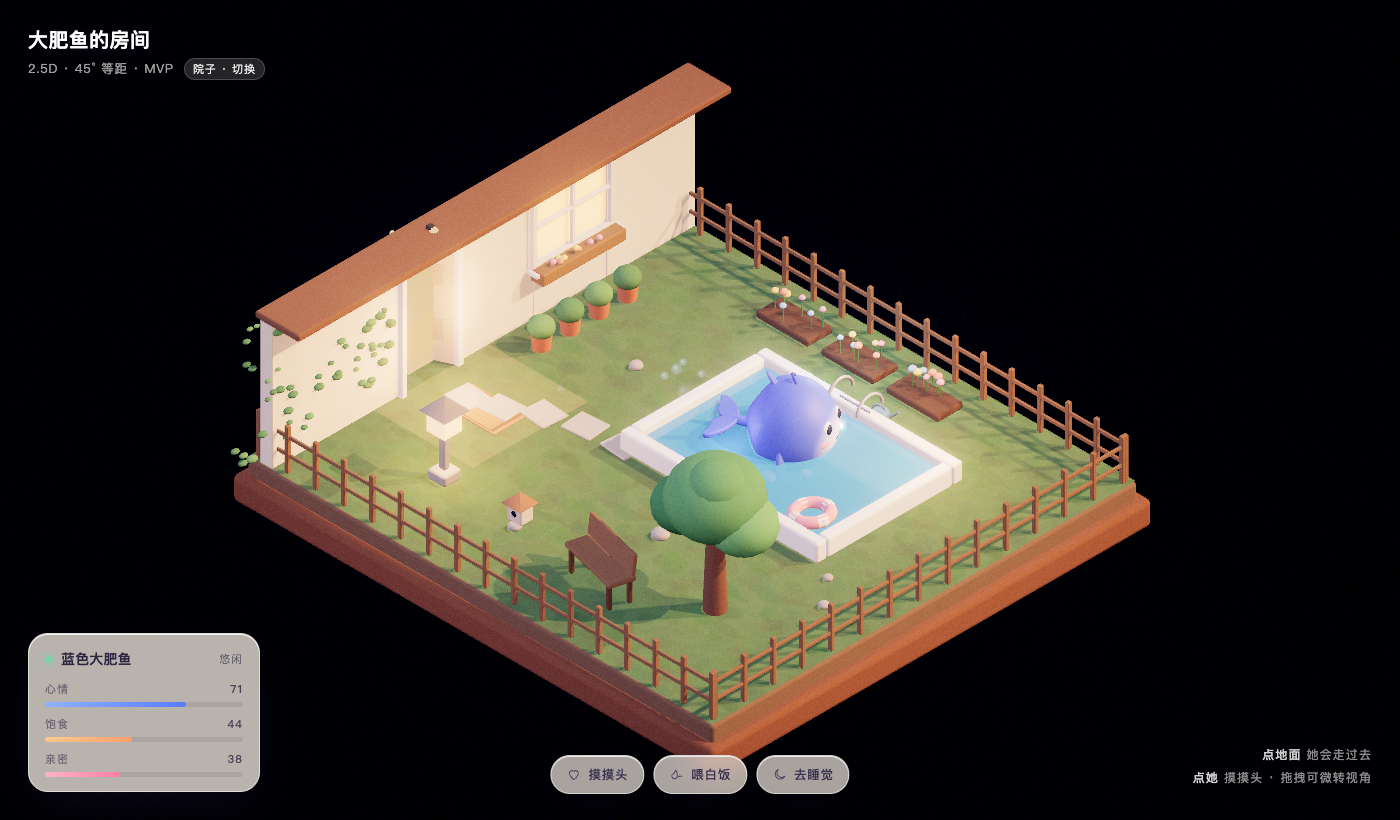
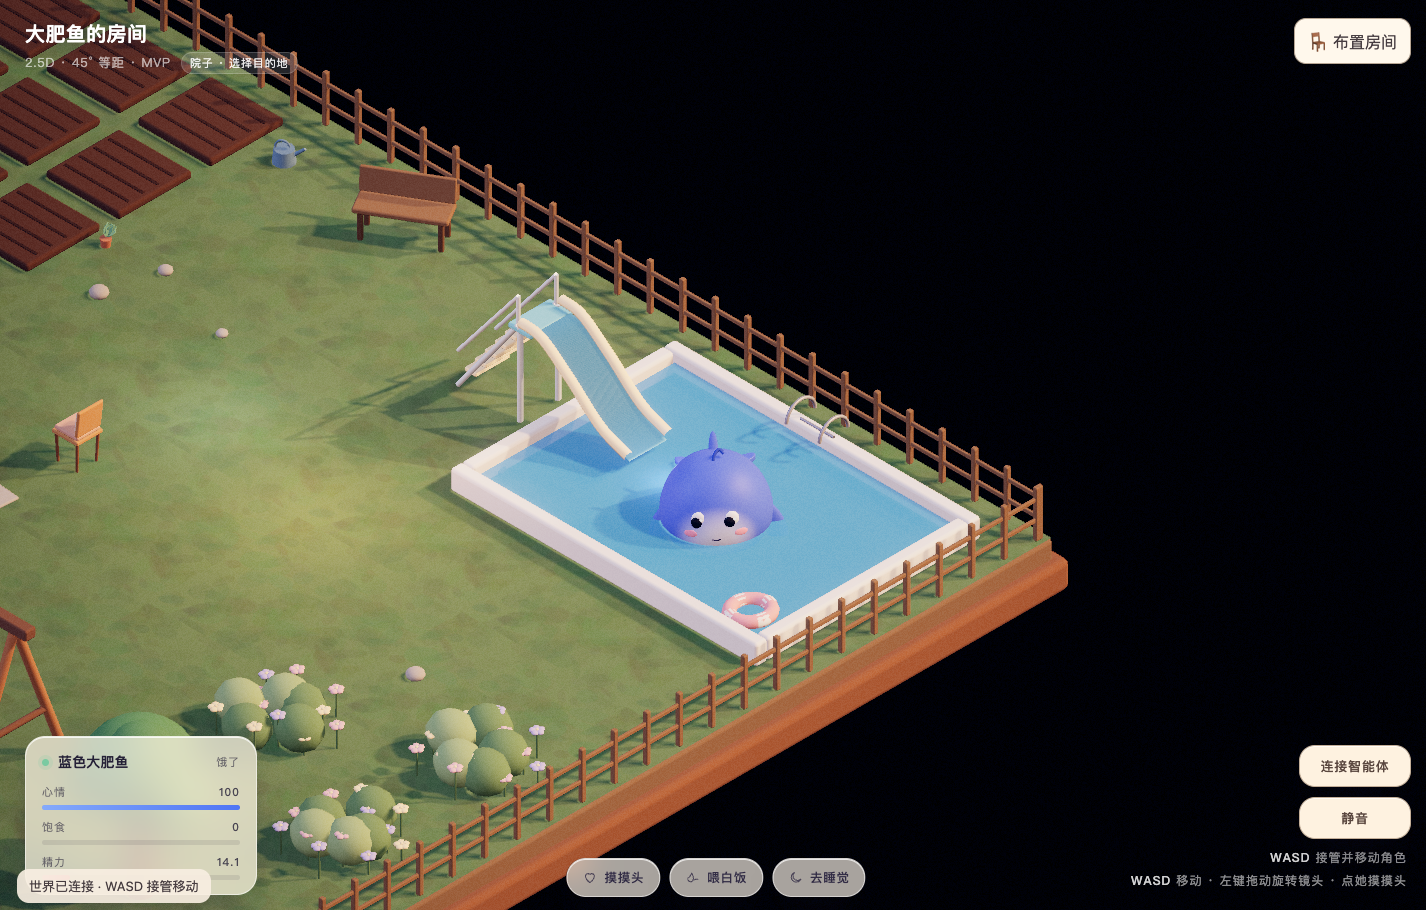
更新五张最新游戏截图，精简README并突出MCP接入与世界建设能力
原样采用用户提供的便利店与日式小楼、卧室、庭院秋千、泳池鲸鱼变身、家具编辑五张截图，置于项目介绍前部。README精简为启动、玩法、MCP授权接入、观察行动建设与音频播放能力、宿主决策边界、存档及许可，保留破晓手记署名和第三方来源。同步修正自检和测试对庭院北侧门槽始终空闲的旧假设，按当前默认布局选择真实可用通道，不修改已固化家具。177项测试、构建、公开文件检查、MCP自检及README链接检查通过；未推送历史文本扫描未发现存档、敏感路径或疑似平台密钥。

diff --git a/README.md b/README.md
@@ -1,22 +1,28 @@
 # 大肥鱼的小世界
 
-一个用 Three.js 制作的 2.5D 电子宠物与房间布置原型：给大肥鱼搭个家，陪她活动、吃白饭、游泳，也能调整家具和院子。
+一个用 Three.js 制作的 2.5D 陪伴与世界搭建游戏。你可以陪大肥鱼生活、布置房间，也可以通过 **MCP 让自己的智能体进入、探索并改造这个世界**。
 
-**作者 / 抖音：破晓手记**。欢迎搜索「破晓手记」，查看成长与开发记录。
-
-这是一个持续探索的 AI 陪伴小世界，部分动作和交互仍在打磨。世界由规则和程序动画执行，外部智能体通过 MCP 决策，QQ 是聊天入口。
-
-文档：[总览](docs/README.md) · [踩坑日记](docs/PITFALLS.md) · [MCP 对接手册](docs/MCP-QUICKSTART.md) · [Agent / DSH 提示词](docs/MCP-PROMPTS.md)
+**作者 / 抖音：破晓手记**
 
 ## 游戏画面
 
-![卧室与电脑椅互动](docs/screenshots/room.png)
+### 夜间便利店与日式小楼
 
-![庭院、农田与泳池滑梯](docs/screenshots/yard.png)
+![街角便利店、路灯与敞开院门的日式二层小楼](docs/screenshots/store.png)
 
-## 快速开始
+### 卧室与庭院
 
-需要 **Node.js 22.13 或更高版本，推荐 Node.js 24**；数据库使用内置的 `node:sqlite`。
+![卧室](docs/screenshots/room.png)
+![庭院与秋千](docs/screenshots/yard.png)
+
+### 泳池变身与家具编辑
+
+![滑入泳池后变为胖鲸鱼](docs/screenshots/pool.png)
+![家具目录与场景编辑](docs/screenshots/editor.png)
+
+## 开始游戏
+
+需要 **Node.js 22.13+，推荐 Node.js 24**。
 
 ```bash
 git clone https://gitee.com/poxiao12138/dafeiyu-room.git
@@ -25,103 +31,55 @@ npm ci
 npm run dev
 ```
 
-打开 [http://127.0.0.1:5200/](http://127.0.0.1:5200/)。本机打开即可自动进入世界，换浏览器或清除 cookie 后也会自动连接。游戏不再使用主人配对码，MCP 标准 OAuth 授权码与主人确认授权继续保留。
+打开 **[http://127.0.0.1:5200/](http://127.0.0.1:5200/)**。前端与后端一起启动，SQLite 存档自动创建，无需安装数据库。
 
-开发命令同时启动前端与存档服务，无需另装数据库。端口固定，占用时先关闭之前启动的服务。
+- **WASD** 移动，走到门口切换场景；户外左键拖动旋转镜头，室内可小幅转动。
+- 点击角色摸头，喂白饭、睡觉恢复状态；滑入泳池变成胖鲸鱼，上岸恢复人形。
+- 点击 **布置房间** 添加、拖动家具；滚轮或 **R** 旋转，右键打开菜单。位置不合适时保留预览，可继续调整。
+- 四个初始场景已包含在项目中。院子保留九块农田，种菜与购物系统尚未实现。
 
-| 运行方式 | 游戏入口 | API 服务 |
-| --- | --- | --- |
-| `npm run dev` | 5200 | 内部 5201，由前端代理 |
-| `npm run build` 后 `npm start` | 5200 | 同一服务提供 |
+正式运行：`npm run build` 后执行 `npm start`，入口仍为 5200。开发与正式服务不要同时启动。
 
-开发与构建服务不能同时占用 5200。`npm run preview` 仅供前端预览，完整体验使用 `npm start`。
+## 让智能体通过 MCP 进入世界
 
-## 角色与资源
+MCP 是智能体访问游戏的工具接口。它能让你的智能体看懂世界状态、控制角色、摆放家具和连接新场景，而不是只在聊天里描述自己做了什么。
 
-克隆后默认使用已适配的鲸鱼娘活泼版，开发与构建一致，资源已包含在项目内。
+1. 在游戏右下角点击 **连接智能体 → 复制地址**。
+2. 将地址添加到支持 **Streamable HTTP + OAuth** 的 MCP 客户端，在授权页确认权限。
+3. 让智能体调用 `world_enter {}`，随后根据工具返回的地图、目录和规则行动。
 
-| 地址参数 | 角色 |
-| --- | --- |
-| `?character=maid-arms` | 默认活泼版 |
-| `?character=maid` | 基础修复版 |
-| `?character=paper` | 纸片立绘试验 |
-| `?character=whale` | 程序化胖鲸鱼 |
-
-`resources/character/` 保存模型、Blender 源文件、立绘与制作说明；`manifest.json` 记录文件大小和 SHA-256。构建仅打包两个运行模型和一张立绘，其余文件供学习与编辑。
-
-人物适配依赖特定骨骼和动画，替换模型需要同步修改角色代码。模型仍有局部穿插等原型限制，制作说明保留了当时的试验结果。
-
-## 连接智能体（MCP）
-
-进入世界后点击右上角 **「连接智能体」→「复制地址」**，在支持 Streamable HTTP 与 OAuth 的客户端添加连接并确认权限。
-
-默认地址为 `http://127.0.0.1:5200/mcp`；复制内容不含凭证，游戏内可查看和撤销授权。已授权不表示客户端当前在线。
-
-智能体首次调用 `world_enter {}` 即可，省略 `worldId` 会进入当前凭证授权的默认世界，之后使用返回的实际 `worldId`，不要猜世界名。`WORLD_SELECTION_INVALID` 表示世界选择不匹配，可按错误中的 `availableWorldIds` 修正，不需要因此重新授权；凭证过期、撤销或无效才会在连接层返回 401。
-
-世界服务保存状态并执行已接受的动作，后续决策与唤醒由外部宿主负责。QQ 继续作为聊天入口。
-
-部署、权限和 stdio 兼容方式见 [MCP 接入指南](docs/MCP-QUICKSTART.md)，宿主与网络边界见 [兼容说明](docs/MCP-COMPATIBILITY.md)。
-
-默认开启声音并播放循环背景音乐（浏览器限制自动播放时，在首次点击或按键后开始），摸头、喂白饭、睡觉与泳池交互可播放角色台词；「静音」同时关闭音乐和语音。公开音频及来源见 [音频说明](resources/audio/README.md)。
-
-智能体还可通过可选授权 `audio:play` 提供音频播放。游戏不采集麦克风或提供语音合成，智能体音频不写入存档。
-
-一碗白饭恢复 50 点饱食（最高 100）；上床实际睡满 10 秒后精力恢复到 100，恢复随动作逐步进行。
-
-点击滑梯本体会走到梯子旁、爬上并滑入泳池，落水后保持鲸鱼形态；点击泳池水面也可游泳。WASD 可在池中游动，上岸后恢复人形。触发门口通道后会完成过门，松开方向键只停止普通移动。
-
-## 操作与玩法
-
-- WASD 移动；户外拖动空白处水平旋转镜头，室内使用固定等距镜头。
-- 户外家具包括秋千、野餐桌、遮阳伞、花箱、花拱门和鸟浴盆；点击秋千可坐下轻摆，目录也向 MCP 开放。
-- 点击「布置房间」进入编辑；拖动物件移动，滚轮或 R 旋转，Delete 删除。
-- Ctrl/Cmd+Z 撤销，Esc 完成；选中物件可调整高度和缩放。
-- 已有卧室、客厅、院子、夜间街角便利店；可通过受控模板创建场景并用双向门槽连接。
-- 角色可跨场景移动、坐下、睡觉、吃白饭、游泳和滑梯。
-- 九块菜地和保护区域保留，目前尚未实现种植系统。
-
-主人可接管角色；编辑锁、控制租约与版本检查协调多人操作来源。智能体动作需查询终态，才能确认完成。
-
-## 存档与后台活动
-
-初始世界与运行存档分开保存：
-
-- `shared/world/starter-world.json`：随代码发布的卧室、客厅、院子和便利店默认布局。
-- `data/game.sqlite`：首次启动自动创建的个人存档，保存布局、角色、动作、事件和授权；已被 Git 忽略。
-
-新安装从默认布局创建世界；已有存档继续使用自己的世界，更新代码不会覆盖它。用户或 AI 通过 MCP 的日常改造只写入数据库，不会改写默认配置。
-
-只有准备发布新的默认摆放时，主动运行 `npm run world:publish-default`，检查配置差异后提交代码。该命令只导出当前卧室、客厅、院子和便利店的布局，不导出人物状态、授权或操作记录，也不会修改运行存档。新增的其他场景不会自动进入发布默认世界。
-
-备份个人存档前停止服务，再复制整个 `data/`。
-
-服务运行时，关闭网页后已接受的有限动作仍按规则推进。控制租约到期、接管或撤权会取消动作；电脑休眠或服务停止期间不会持续移动，重启从检查点恢复。
-
-这是本地单人世界，默认仅监听 `127.0.0.1`。跨机使用需配置 HTTPS 反向代理和 `WORLD_PUBLIC_URL`，再从实际客户端验证连接。
-
-## 开发与检查
-
-```bash
-npm test
-npm run self-check
-npm run check
+```text
+http://127.0.0.1:5200/mcp
 ```
 
-`check` 运行全部测试、生产构建和公开文件检查；`self-check` 使用临时数据库与真实 SDK 验证授权、创建场景、行动、重启与撤权，不访问已有存档。
+| 能力 | 智能体可以做什么 |
+| --- | --- |
+| 观察 | 查看场景、家具、角色状态和世界事件 |
+| 行动 | 跨场景走动、坐下、吃白饭、睡觉、游泳、滑梯 |
+| 建设 | 预览并提交场景和家具改造，连接场景、撤销建设 |
+| 播放音频 | 提供已生成的语音，由游戏播放；游戏不合成语音、不采集麦克风 |
 
-公开检查通过清单与摘要验证角色资源，同时拒绝凭证、存档、语音权重、备份和临时文件。修改资源后应核对并更新清单。
+游戏统一校验碰撞、农田保护、门口通道与镜头规则；主人可随时接管角色、撤销智能体授权。**智能体的后续决策和定时唤醒由 DSH 等宿主负责**，游戏服务负责保存世界并执行已接受的动作。
 
-## 来源与授权
+默认地址仅供同一台电脑使用。只支持 stdio 的客户端可用项目适配器；远程部署、授权范围和参数示例见 **[MCP 对接手册](docs/MCP-QUICKSTART.md)**，可复制的提示词见 **[智能体接入提示词](docs/MCP-PROMPTS.md)**。
 
-项目代码及作者有权授权的 `resources/character/` 资源、项目截图随项目采用 [MIT License](LICENSE)，允许使用、修改、分享及商用，须保留版权与许可证声明。
+## 存档与开发
 
-人物资源包含使用付费 Meshy 服务生成的模型，以及破晓手记制作、修复和编辑的源文件；原始版本和腾讯版试验模型一并保留供参考。素材授权以作者实际拥有的权利为范围，第三方组件保留各自许可。
+- 默认布局：`shared/world/starter-world.json`，用于创建新世界。
+- 个人存档：`data/game.sqlite`，已排除在 Git 之外。日常操作和 AI 改造只保存到数据库，不会改写发布默认数据。
+- 角色模型及配音已随项目提供；默认使用鲸鱼娘，`?character=whale` 可切换程序化胖鲸鱼。
 
-主要依赖 Three.js、Fastify、MCP TypeScript SDK、Zod、Vite、esbuild 与 Playwright；完整版权文本和来源见 [第三方声明](THIRD-PARTY-NOTICES.md)。开发中也参考体验了 [茉莉的小房间 / norsizu](https://github.com/norsizu/moli-room)，其代码与美术许可独立。
+```bash
+npm run check       # 测试、构建与公开资源检查
+npm run self-check  # MCP 授权与世界操作流程自检
+```
 
-欢迎在 Issues 留下问题与建议，或到抖音「破晓手记」评论区交流。
+更多说明：[文档目录](docs/README.md) · [踩坑日记](docs/PITFALLS.md) · [存档与默认世界](docs/WORLD-SAVES.md)
 
-新增家具会先作为预览出现在当前视野中，拖动松开或点击「保存摆放」后提交。遇到重叠、挡路或农田保护校验时，家具会保留并提示原因，可继续移动调整；「取消新增」可移除预览。
+## 来源与许可
 
-街角便利店参考夜间街景搭建，包含原创招牌、商品橱窗、自动售货机、路灯、停车位与斑马线。客厅原来通向院子的门现在通向便利店；街道左侧尽头有带庭院的日式二层小楼，敞开的院门朝着街道，走入院门可返回客厅。卧室通往院子的门保留。旧存档只进行一次场景接入升级，既有家具、农田与人物状态保留，之后不会反复覆盖便利店的修改。当前提供店外游逛，尚未实现购买交易。
+代码及作者有权授权的角色资源、配音和项目截图采用 **[MIT License](LICENSE)**，允许商用，须保留版权与许可声明。角色包含使用付费 Meshy 服务生成、由作者修复和编辑的模型；素材授权限于作者实际拥有的权利。
+
+主要使用 Three.js、Fastify、MCP TypeScript SDK、Zod、Vite 等开源组件；详细来源与版权文本见 **[第三方声明](THIRD-PARTY-NOTICES.md)**。开发中也参考体验了 [茉莉的小房间 / norsizu](https://github.com/norsizu/moli-room)，其许可独立。
+
+欢迎在仓库的问题反馈（Issues）中提建议，或到抖音「破晓手记」交流。
